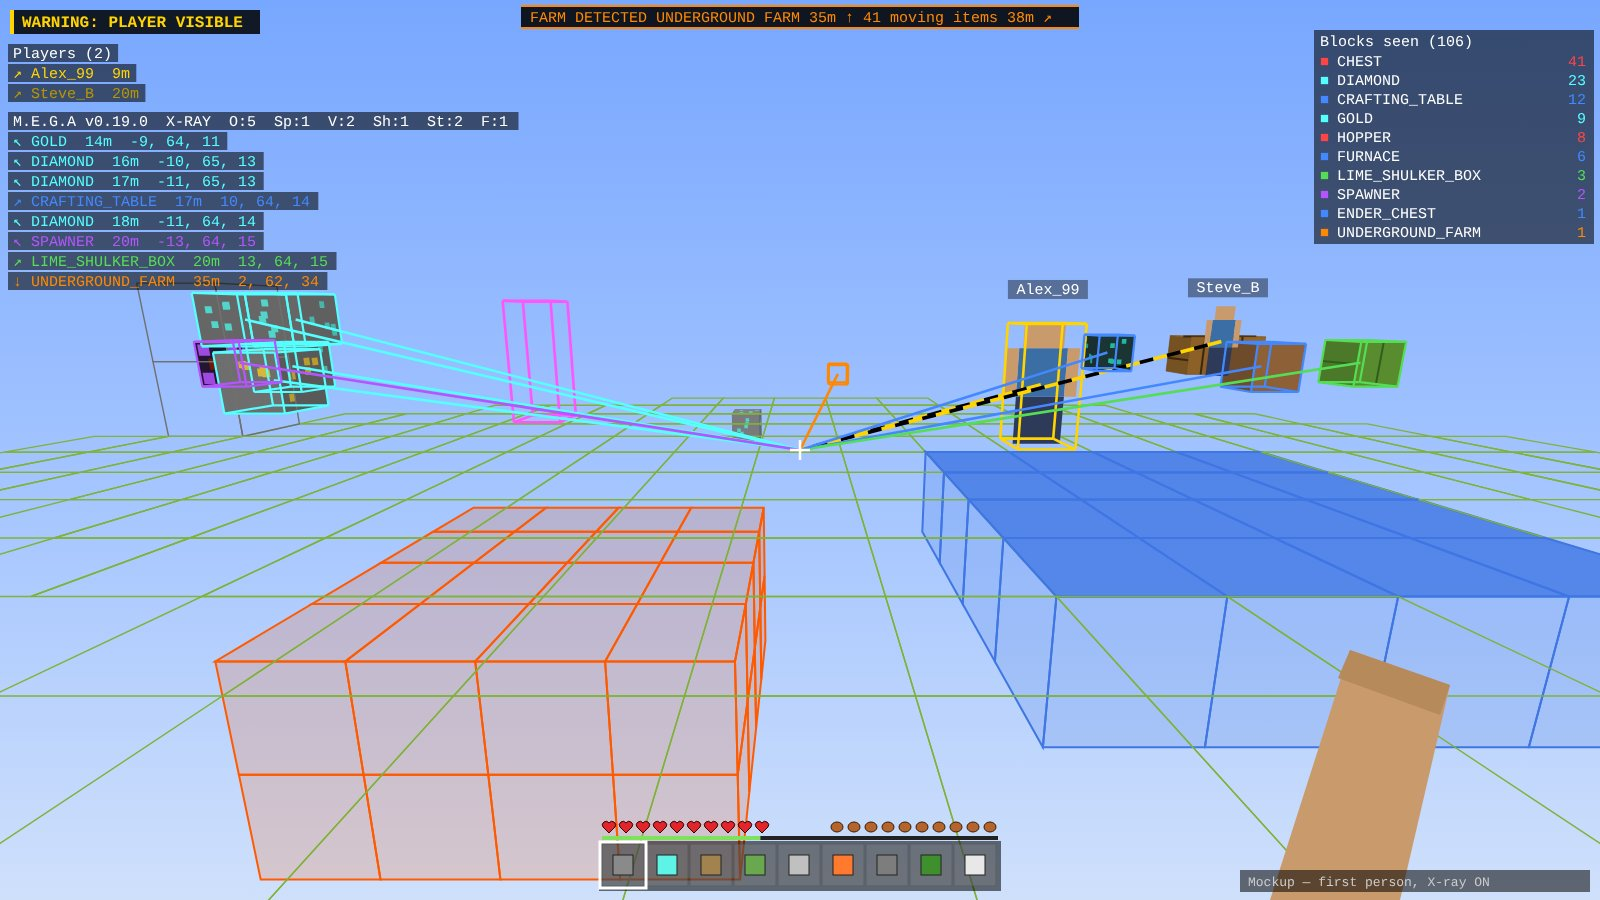
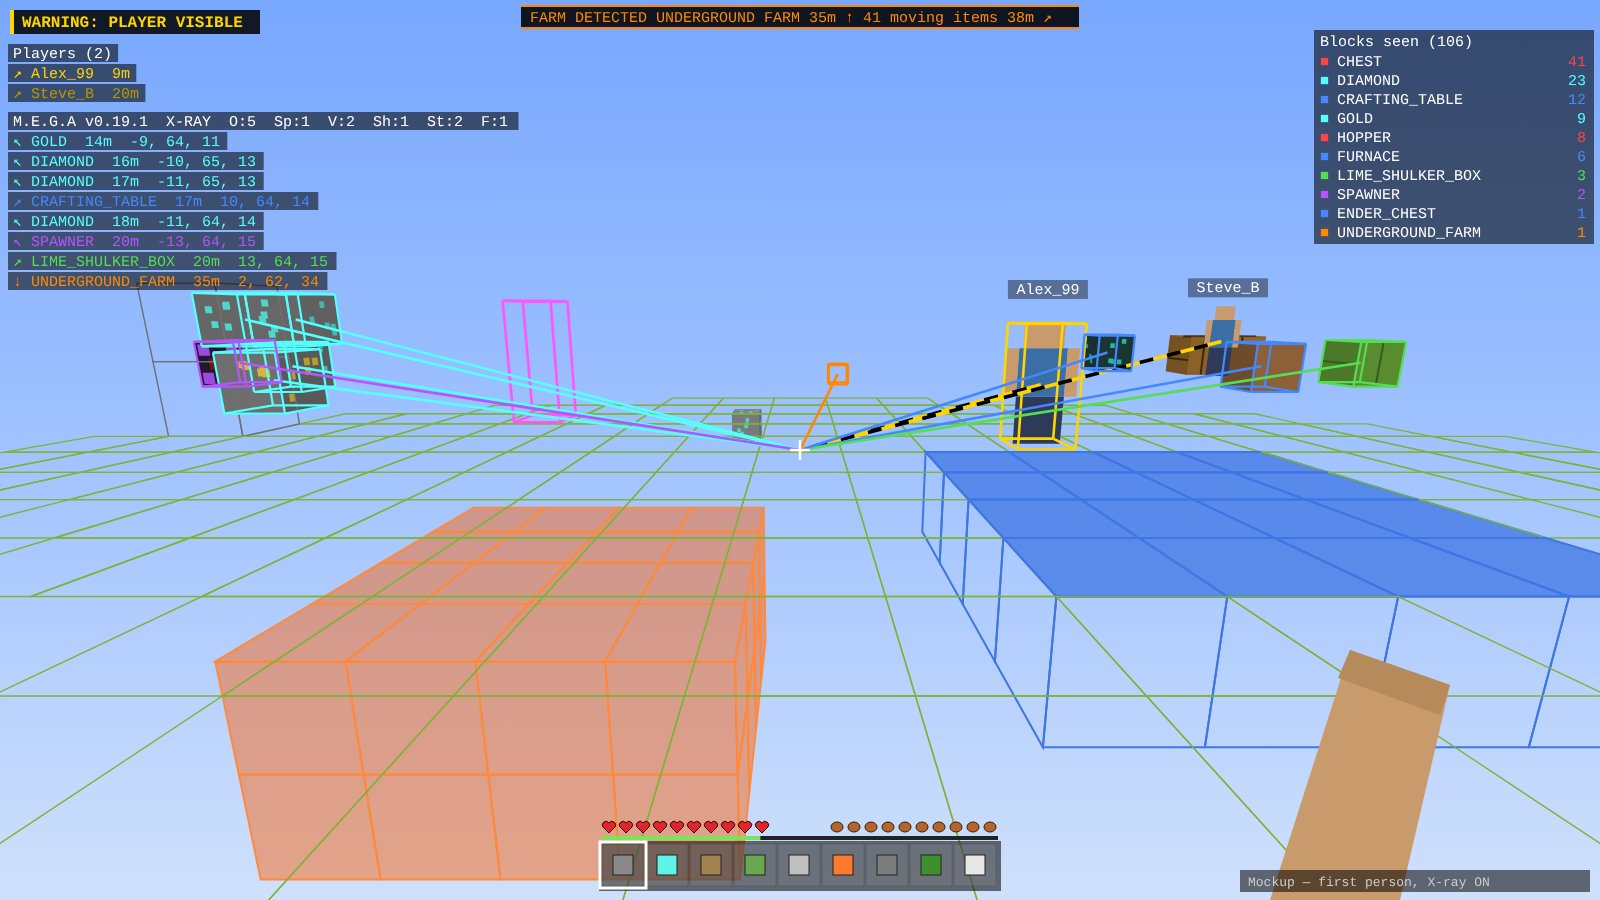
X-ray: see-through lava, water keeps its texture (v0.19.1)
Claude-Session: https://claude.ai/code/session_012byuoRshZLuMMsfoWaBLd3

diff --git a/src/main/java/dev/mega/client/MegaTracers.java b/src/main/java/dev/mega/client/MegaTracers.java
@@ -8,6 +8,7 @@ import net.minecraft.client.MinecraftClient;
 import net.minecraft.client.gl.RenderPipelines;
 import net.minecraft.client.network.AbstractClientPlayerEntity;
 import net.minecraft.client.render.RenderLayer;
+import net.minecraft.client.render.RenderLayers;
 import net.minecraft.client.render.RenderSetup;
 import net.minecraft.client.render.VertexConsumer;
 import net.minecraft.client.render.VertexConsumerProvider;
@@ -16,6 +17,7 @@ import net.minecraft.client.util.math.MatrixStack;
 import net.minecraft.util.Identifier;
 import net.minecraft.util.math.Vec3d;
 import net.minecraft.util.shape.VoxelShapes;
+import org.joml.Matrix4f;
 import org.joml.Vector3fc;
 
 import java.util.List;
@@ -119,6 +121,44 @@ final class MegaTracers {
         }
 
         if (consumers instanceof VertexConsumerProvider.Immediate immediate) immediate.draw(LAYER);
+
+        // X-ray: see-through lava. Sides facing hidden rock get a translucent orange fill.
+        if (MegaXray.active() && cfg.xrayFluids && MegaXray.lavaCount > 0) {
+            RenderLayer fill = RenderLayers.debugFilledBox();
+            VertexConsumer fb = consumers.getBuffer(fill);
+            Matrix4f mat = entry.getPositionMatrix();
+            long[] lp = MegaXray.lavaPos;
+            byte[] lm = MegaXray.lavaMask;
+            int ln = Math.min(MegaXray.lavaCount, Math.min(lp.length, lm.length));
+            for (int i = 0; i < ln; i++) {
+                float x = (float) (net.minecraft.util.math.BlockPos.unpackLongX(lp[i]) - cam.x);
+                float y = (float) (net.minecraft.util.math.BlockPos.unpackLongY(lp[i]) - cam.y);
+                float z = (float) (net.minecraft.util.math.BlockPos.unpackLongZ(lp[i]) - cam.z);
+                int mask = lm[i];
+                for (int di = 0; di < MegaXray.DIRS.length; di++) {
+                    if ((mask & (1 << di)) == 0) continue;
+                    lavaFace(fb, mat, x, y, z, MegaXray.DIRS[di]);
+                }
+            }
+            if (consumers instanceof VertexConsumerProvider.Immediate immediate) immediate.draw(fill);
+        }
+    }
+
+    private static final int LAVA_FILL = 0x73FF5A00; // ~45% opaque orange
+
+    /** One face of a block as a quad, emitted in both windings so it shows from either side. */
+    private static void lavaFace(VertexConsumer b, Matrix4f m, float x, float y, float z, net.minecraft.util.math.Direction d) {
+        float x0 = x, y0 = y, z0 = z, x1 = x + 1, y1 = y + 1, z1 = z + 1;
+        float[][] q = switch (d) {
+            case DOWN -> new float[][]{{x0, y0, z0}, {x1, y0, z0}, {x1, y0, z1}, {x0, y0, z1}};
+            case UP -> new float[][]{{x0, y1, z0}, {x0, y1, z1}, {x1, y1, z1}, {x1, y1, z0}};
+            case NORTH -> new float[][]{{x0, y0, z0}, {x0, y1, z0}, {x1, y1, z0}, {x1, y0, z0}};
+            case SOUTH -> new float[][]{{x0, y0, z1}, {x1, y0, z1}, {x1, y1, z1}, {x0, y1, z1}};
+            case WEST -> new float[][]{{x0, y0, z0}, {x0, y0, z1}, {x0, y1, z1}, {x0, y1, z0}};
+            case EAST -> new float[][]{{x1, y0, z0}, {x1, y1, z0}, {x1, y1, z1}, {x1, y0, z1}};
+        };
+        for (int k = 0; k < 4; k++) b.vertex(m, q[k][0], q[k][1], q[k][2]).color(LAVA_FILL);
+        for (int k = 3; k >= 0; k--) b.vertex(m, q[k][0], q[k][1], q[k][2]).color(LAVA_FILL);
     }
 
     /** Yellow/black hazard-striped line for players. */

diff --git a/src/main/java/dev/mega/client/MegaXray.java b/src/main/java/dev/mega/client/MegaXray.java
@@ -65,13 +65,17 @@ public final class MegaXray {
     static long[] ghostPos = new long[0];
     static int[] ghostColor = new int[0];
     static int ghostCount;
+    /** Lava blocks and which sides face hidden blocks: drawn as see-through orange so lava shows inside the rock. */
+    static long[] lavaPos = new long[0];
+    static byte[] lavaMask = new byte[0];
+    static int lavaCount;
     private static int ghostTimer;
-    private static final Direction[] DIRS = Direction.values();
+    static final Direction[] DIRS = Direction.values();
 
     /** Rescans ghost outlines every 10 ticks within config.xrayGhostRange (cube around you). */
     static void scanGhosts(MinecraftClient client) {
         MegaConfig cfg = MegaClient.config;
-        if (!active || (!cfg.xrayGhost && !cfg.xrayFluids) || client.world == null || client.player == null) { ghostCount = 0; return; }
+        if (!active || (!cfg.xrayGhost && !cfg.xrayFluids) || client.world == null || client.player == null) { ghostCount = 0; lavaCount = 0; return; }
         if (++ghostTimer < 10) return;
         ghostTimer = 0;
         World world = client.world;
@@ -80,6 +84,9 @@ public final class MegaXray {
         long[] pos = new long[max];
         int[] col = new int[max];
         int n = 0;
+        long[] lp = new long[max];
+        byte[] lm = new byte[max];
+        int ln = 0;
         BlockPos.Mutable m = new BlockPos.Mutable(), nb = new BlockPos.Mutable();
         outer:
         for (int dy = -r; dy <= r; dy++) for (int dx = -r; dx <= r; dx++) for (int dz = -r; dz <= r; dz++) {
@@ -92,12 +99,20 @@ public final class MegaXray {
                 if (!cfg.xrayFluids) continue;
                 boolean lava = fs.isIn(FluidTags.LAVA);
                 boolean edge = false;
-                for (Direction d : DIRS) {
+                int mask = 0;
+                for (int di = 0; di < DIRS.length; di++) {
+                    Direction d = DIRS[di];
                     nb.set(m.getX() + d.getOffsetX(), m.getY() + d.getOffsetY(), m.getZ() + d.getOffsetZ());
-                    FluidState nf = world.getBlockState(nb).getFluidState();
-                    if (nf.isEmpty() || nf.isIn(FluidTags.LAVA) != lava) { edge = true; break; }
+                    BlockState ns = world.getBlockState(nb);
+                    FluidState nf = ns.getFluidState();
+                    if (nf.isEmpty() || nf.isIn(FluidTags.LAVA) != lava) {
+                        edge = true;
+                        // sides against hidden blocks get a see-through fill (sides open to air already show real lava)
+                        if (lava && !ns.isAir() && !isVisible(ns)) mask |= 1 << di;
+                    }
                 }
                 if (!edge) continue;
+                if (mask != 0 && ln < max) { lp[ln] = m.asLong(); lm[ln] = (byte) mask; ln++; }
                 pos[n] = m.asLong();
                 col[n] = lava ? 0xFFFF5A00 : 0xFF3F76E4;
                 if (++n >= max) break outer;
@@ -120,6 +135,9 @@ public final class MegaXray {
         ghostPos = pos;
         ghostColor = col;
         ghostCount = n;
+        lavaPos = lp;
+        lavaMask = lm;
+        lavaCount = ln;
     }
 
     /** Keeps the client-side night vision on while x-ray is active (every tick, cheap). */

diff --git a/README.md b/README.md
@@ -14,7 +14,7 @@ Client-side ESP, tracers, X-ray, farm alerts and block counter for the server.
 1. No griefing
 2. No spawn camping
 3. No TP killing
-4. ESPs are allowed **only after the server owner has checked them**. The HUD shows the version (`M.E.G.A v0.19.0`) so the owner can confirm which approved build a player is running.
+4. ESPs are allowed **only after the server owner has checked them**. The HUD shows the version (`M.E.G.A v0.19.1`) so the owner can confirm which approved build a player is running.
 5. Duping is allowed **only while the server owner is watching**.
 
 ## Install
@@ -54,7 +54,7 @@ Client-side only: nothing is installed on the server, and other players don't ne
 
 Outlines show within 12 blocks of you, only where a block touches air. Small shapes like torches, flowers, tall grass, rails and signs stay drawn.
 
-**Lava and water:** they still render normally, and in X-ray the edges of every lava pool (orange) and water body (blue) within 12 blocks are outlined, so you can see them through the hidden stone. Panel button: *X-ray lava & water*.
+**Lava and water** (panel button: *X-ray lava & water*): within 12 blocks, lava hidden inside rock shows as **see-through orange** with orange edges, so you can see the whole pool. Water keeps its normal texture, with blue edges.
 
 ## Settings panel (press 0)
 ![Settings panel](docs/images/panel.png)
@@ -94,7 +94,7 @@ To change it, open `tools/spawner-editor.html`, paint a new one, and turn the co
 | ignoredItems | stone, cobblestone, cobbled deepslate, deepslate, gravel | never count for the moving-items alert |
 | xray | false | M.E.G.A X-ray |
 | xrayGhost / xrayGhostRange / xrayGhostMax | true / 12 / 6000 | outlines of hidden blocks |
-| xrayFluids | true | lava (orange) and water (blue) outlines in X-ray |
+| xrayFluids | true | see-through lava and water edges in X-ray |
 | xrayEdges / xrayMax | false / 3000 | optional coloured edges round X-ray blocks |
 
 ## Build
